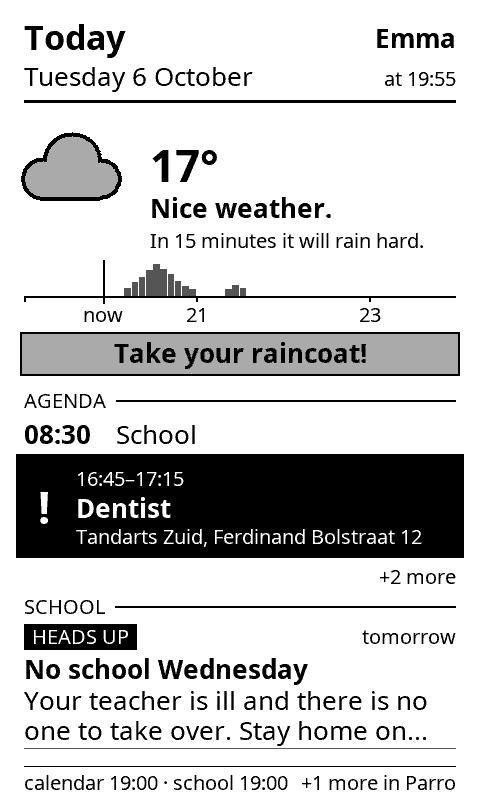
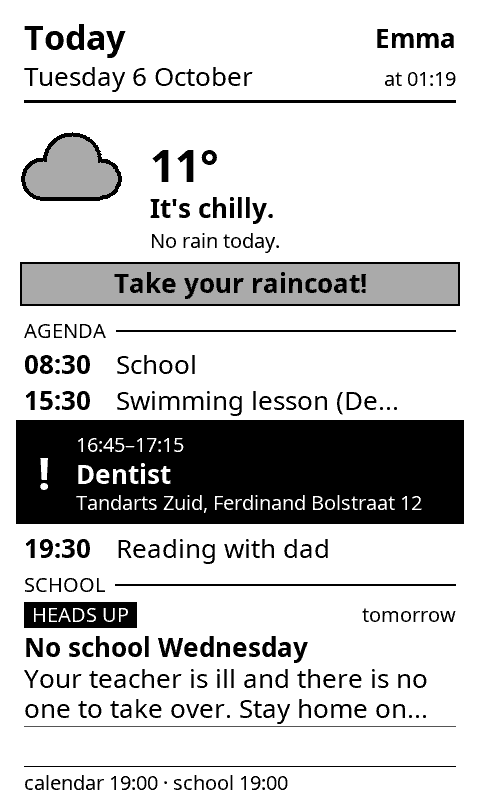
feat(informers): rain as raindrops per hour on the day informer
The rain chart was thin gray bars that did not read as rain. Each hour now
gets 1-3 raindrops (a little rain, rain, heavy rain), black when rain is
likely and gray when it is a maybe, over an hour axis with a tick per hour.
The footer no longer runs "+N meer" into a stale-data warning.

Changed region(s): [[0.0312, 0.1875, 0.9688, 0.9375], [0.6562, 0.9688, 0.9375, 1.0], [0.8438, 0.0938, 0.9375, 0.125]]

diff --git a/informers/worker/src/rain.js b/informers/worker/src/rain.js
@@ -1,14 +1,14 @@
-// When it rains during one day, as a sentence and a small timeline:
+// When it rains during one day, as a sentence and a row of hours with drops:
 //
-//   Regen van 8 tot 14 uur en om 17 uur.
-//   ▁▃▇▇▅▂       ▃
-//   ┴──┴──┴──┴──┴──┴──┴──┴
-//   7  9  11 13 15 17 19 21
+//   Regen van 9 tot 11 uur en vanaf 13 uur.
+//         💧💧            💧    💧💧💧  💧
+//   ┴──┴──┴──┴──┴──┴──┴──┴──┴──┴──┴──┴──┴──┴
+//   7     9     11    13    15    17    19    21
 //
-// Bars are the hourly amount (Open-Meteo, square-root scale so a drizzle still
-// shows); dark when the ensemble says rain is likely, light when it is a
-// maybe. Today starts at the current hour and draws the next two hours from
-// the 5-minute radar nowcast instead, so "in 20 minutes" is visible too.
+// One drop is a little rain, two is rain, three is heavy rain (hourly
+// amounts from Open-Meteo); black when the ensemble says rain is likely, gray
+// when it is a maybe. Today starts at the current hour, and its first two
+// hours carry the 5-minute radar nowcast instead of the model.
 import { BLACK, DARK_GRAY, GRAY } from "./canvas.js";
 import * as F from "./fonts.js";
 import { clock } from "./time.js";
@@ -16,7 +16,6 @@ import { clock } from "./time.js";
 export const WET_MM = 0.1; // an hour (or nowcast slot) below this is dry
 const LIKELY = 50; // % from the ensemble: at or above draws dark
 const MAYBE = 35; // a window whose hours all stay below this is "maybe"
-const FULL_MM = 5; // mm/h that fills the bar height
 const DAY_FROM = 7;
 const DAY_TO = 21;
 const HOUR = 3600000;
@@ -110,53 +109,53 @@ export function rainWhen(hours, lang) {
 
 export const dryText = (offset, lang) => T[lang].dry[offset === 0 ? 0 : 1];
 
-// Draws the timeline at (x, y), width w; returns the y below it.
-// `nowcast` (today only) is [{ time: ms, mm }] in 5-minute steps; `startMs` is
-// the absolute time of the first hour column; `showNow` marks now in it.
-export function rainChart(c, hours, x, y, w, lang, { nowcast = null, startMs = 0, showNow = false } = {}) {
-  const L = T[lang];
-  const barH = 34;
-  const colW = w / hours.length;
-  const base = y + barH;
-  const height = (mm) => Math.max(4, Math.round((Math.sqrt(Math.min(mm, FULL_MM)) / Math.sqrt(FULL_MM)) * barH));
-  const shade = (p) => (p >= LIKELY ? (c.gray ? DARK_GRAY : BLACK) : GRAY);
-
-  // Hours the nowcast covers get its 5-minute bars instead of the hourly one.
-  const covered = new Set();
-  if (nowcast?.length) {
-    const slotW = colW / 12;
-    for (const s of nowcast) {
-      const col = Math.floor((s.time - startMs) / HOUR);
-      if (col < 0 || col >= hours.length) continue;
-      covered.add(col);
-      if (s.mm < WET_MM) continue;
-      const sx = x + ((s.time - startMs) / HOUR) * colW;
-      const bh = height(s.mm);
-      c.rect(sx, base - bh, Math.max(2, slotW - 0.5), bh, c.gray ? DARK_GRAY : BLACK);
-    }
+// A raindrop with its tip up, filled with `v`.
+function raindrop(c, cx, cy, r, v) {
+  c.circle(cx, cy, r, v);
+  const tip = r * 1.7;
+  for (let y = 0; y < tip; y++) {
+    const half = r * (1 - y / tip);
+    c.rect(cx - half, cy - y, 2 * half, 1, v);
   }
+}
+
+// Drops per hour: 1 a little rain, 2 rain, 3 heavy rain.
+const dropsFor = (mm) => (mm < WET_MM ? 0 : mm < 0.5 ? 1 : mm < 2.5 ? 2 : 3);
+
+// Draws the day as a row of hours with raindrops stacked in the rainy ones
+// (black: rain is likely, gray: a maybe) over an hour axis; returns the y
+// below it. Hours the radar nowcast covers already carry its amount. With
+// `showNow`, `startMs` is the first column's time and a marker shows now.
+export function rainChart(c, hours, x, y, w, lang, { startMs = 0, showNow = false } = {}) {
+  const L = T[lang];
+  const colW = w / hours.length;
+  const r = Math.max(4, Math.min(7, Math.floor(colW / 4.4)));
+  const step = Math.round(r * 2.9); // one drop's height plus a gap
+  const top = y + 4;
+  const base = top + 3 * step + 2;
+
   hours.forEach((h, i) => {
-    if (covered.has(i) || h.mm < WET_MM) return;
-    const bh = height(h.mm);
-    c.rect(x + i * colW + 2, base - bh, colW - 4, bh, shade(h.p));
+    const n = dropsFor(h.mm);
+    const v = h.p >= LIKELY ? BLACK : c.gray ? GRAY : DARK_GRAY;
+    const cx = x + i * colW + colW / 2;
+    for (let k = 0; k < n; k++) raindrop(c, cx, base - r - 3 - k * step, r, v);
   });
 
   c.rect(x, base, w, 2);
-  // A tick and label every two hours from the start. Today the first hour is
-  // already under way: "nu" marks where now is instead of its hour.
-  for (let i = 0; i <= hours.length; i += 2) {
-    const tx = x + i * colW;
-    c.rect(Math.min(tx, x + w - 2), base, 2, 6);
-    if (i === 0 && showNow) continue;
+  // A tick every hour, a label every two. Today "nu" stands where now is.
+  for (let i = 0; i <= hours.length; i++) {
+    const tx = Math.min(x + i * colW, x + w - 2);
+    c.rect(tx, base, 2, i % 2 ? 4 : 8);
+    if (i % 2 || (i === 0 && showNow)) continue;
     const align = i === 0 ? "left" : i === hours.length ? "right" : "center";
-    c.text(String((hours[0].hour + i) % 24), tx, base + 26, F.small, { align });
+    c.text(String((hours[0].hour + i) % 24), x + i * colW, base + 28, F.small, { align });
   }
   if (showNow) {
     const nx = Math.round(x + ((Date.now() - startMs) / HOUR) * colW);
-    c.rect(nx, base - barH - 2, 2, barH + 10, BLACK);
-    c.text(L.now, Math.max(x, nx - c.textWidth(L.now, F.small) / 2), base + 26, F.small);
+    c.rect(nx, top - 4, 2, base - top + 12, BLACK);
+    c.text(L.now, Math.max(x, nx - c.textWidth(L.now, F.small) / 2), base + 28, F.small);
   }
-  return base + 32;
+  return base + 34;
 }
 
 export const startOfHour = (ms) => Math.floor(ms / HOUR) * HOUR;

diff --git a/informers/worker/src/informers/dag.js b/informers/worker/src/informers/dag.js
@@ -142,7 +142,7 @@ function weatherBlock(c, w, offset, targetIso, lang, y) {
     by += (lines.length - 1) * 26;
   }
   by += 14;
-  if (wet) by = rainChart(c, hours, 24, by, W - 48, lang, { nowcast, startMs, showNow }) + 4;
+  if (wet) by = rainChart(c, hours, 24, by, W - 48, lang, { startMs, showNow }) + 4;
   return tipBox(c, tipList, by);
 }
 
@@ -307,14 +307,15 @@ export default {
     // Footer: how fresh each source is.
     c.rect(24, H - 34, W - 48, 1);
     const ageH = (iso) => (now - Date.parse(iso)) / 3600000;
-    if (kidAgenda && ageH(agenda.updated) > AGENDA_STALE_HOURS) {
-      c.text(L.staleAgenda, 24, H - 10, F.bodyBold);
-    } else if (school && ageH(school.updated) > STALE_HOURS) {
-      c.text(SL.stale(relDay(amsDate.format(Date.parse(school.updated)), today, SL)), 24, H - 10, F.bodyBold);
-    } else {
-      c.text(L.fresh(agenda && clock(Date.parse(agenda.updated)), school && clock(Date.parse(school.updated))), 24, H - 10, F.small);
+    let footer = [L.fresh(agenda && clock(Date.parse(agenda.updated)), school && clock(Date.parse(school.updated))), F.small];
+    if (kidAgenda && ageH(agenda.updated) > AGENDA_STALE_HOURS) footer = [L.staleAgenda, F.bodyBold];
+    else if (school && ageH(school.updated) > STALE_HOURS) footer = [SL.stale(relDay(amsDate.format(Date.parse(school.updated)), today, SL)), F.bodyBold];
+    c.text(footer[0], 24, H - 10, footer[1]);
+    // "+N meer" only where it does not run into the freshness line.
+    const more = queue.length > shown ? SL.more(queue.length - shown) : "";
+    if (more && c.textWidth(footer[0], footer[1]) + c.textWidth(more, F.small) + 16 <= W - 48) {
+      c.text(more, W - 24, H - 10, F.small, { align: "right" });
     }
-    if (queue.length > shown) c.text(SL.more(queue.length - shown), W - 24, H - 10, F.small, { align: "right" });
     return c;
   },
 };

diff --git a/informers/sd/plugins/dag/README.md b/informers/sd/plugins/dag/README.md
@@ -5,7 +5,7 @@ How to see it:
 2. Press the power button to put the reader to sleep. While going to sleep the reader fetches three pictures when the last ones are more than 2 hours old (it needs WiFi it has connected to before, and at least 20% battery). It also wakes itself at 06:45, 07:55 and 19:05 to refresh them.
 3. Tomorrow and the day after are in Browse Files → "informers": 0-morgen.bmp and 0-overmorgen.bmp. Press Left or Right to flip between informers. Press Back to leave.
 
-What it shows, for one child and one day: the weather (today: now; tomorrow and the day after: the forecast) with, when it rains, a sentence and a small chart saying when (dark bars: rain is likely, light bars: maybe; today the first two hours come from the rain radar), the day's agenda from the family calendars, and school news about that day. Something that happens only once (a dentist visit, a birthday) is white on black with a "!", so it stands out from the weekly routine. No school on that day puts a black bar at the top.
+What it shows, for one child and one day: the weather (today: now; tomorrow and the day after: the forecast) with, when it rains, a sentence and a row of hours with raindrops saying when (one drop: a little rain, three drops: heavy rain; black: rain is likely, gray: maybe; today the first two hours come from the rain radar), the day's agenda from the family calendars, and school news about that day. Something that happens only once (a dentist visit, a birthday) is white on black with a "!", so it stands out from the weekly routine. No school on that day puts a black bar at the top.
 
 The agenda is read from the calendars every hour, the school news at 07:50 and 19:00. The bottom line says when each was last read.
 

diff --git a/informers/README.md b/informers/README.md
@@ -37,7 +37,7 @@ build.
 | `weather` | Buienradar feed (nearest station, 4-day forecast) and Buienalarm rain nowcast; simple Dutch for an 8-year-old | `lat`, `lon`, `place`, `depth`, `demo=rain` |
 | `vakantie` | Rijksoverheid open data school holidays; days until the next holiday per region, simple Dutch for an 8-year-old | `regio=noord\|midden\|zuid`, `depth`, `vandaag=YYYY-MM-DD` |
 | `school` | Parro news per child, pushed twice a day by a job on Hermes's host (see `school/README.md`); stays in KV, needs `key` | `kid`, `key`, `depth`, `vandaag=YYYY-MM-DD` |
-| `dag` | One child's day: weather with a rain timeline (when rain falls, hour by hour; the next two hours from the radar), the day's agenda, school news about that day. The agenda is pushed hourly by a job on Hermes's host (see `agenda/README.md`); one-off events are white on black, repeating ones a plain line | `kid`, `key`, `offset=0\|1\|2` (today, tomorrow, day after), `lat`, `lon`, `depth`, `vandaag=YYYY-MM-DD` |
+| `dag` | One child's day: weather with a rain row (raindrops per hour: one a little rain, three heavy rain; the next two hours from the radar), the day's agenda, school news about that day. The agenda is pushed hourly by a job on Hermes's host (see `agenda/README.md`); one-off events are white on black, repeating ones a plain line | `kid`, `key`, `offset=0\|1\|2` (today, tomorrow, day after), `lat`, `lon`, `depth`, `vandaag=YYYY-MM-DD` |
 
 ## Develop and deploy
 
